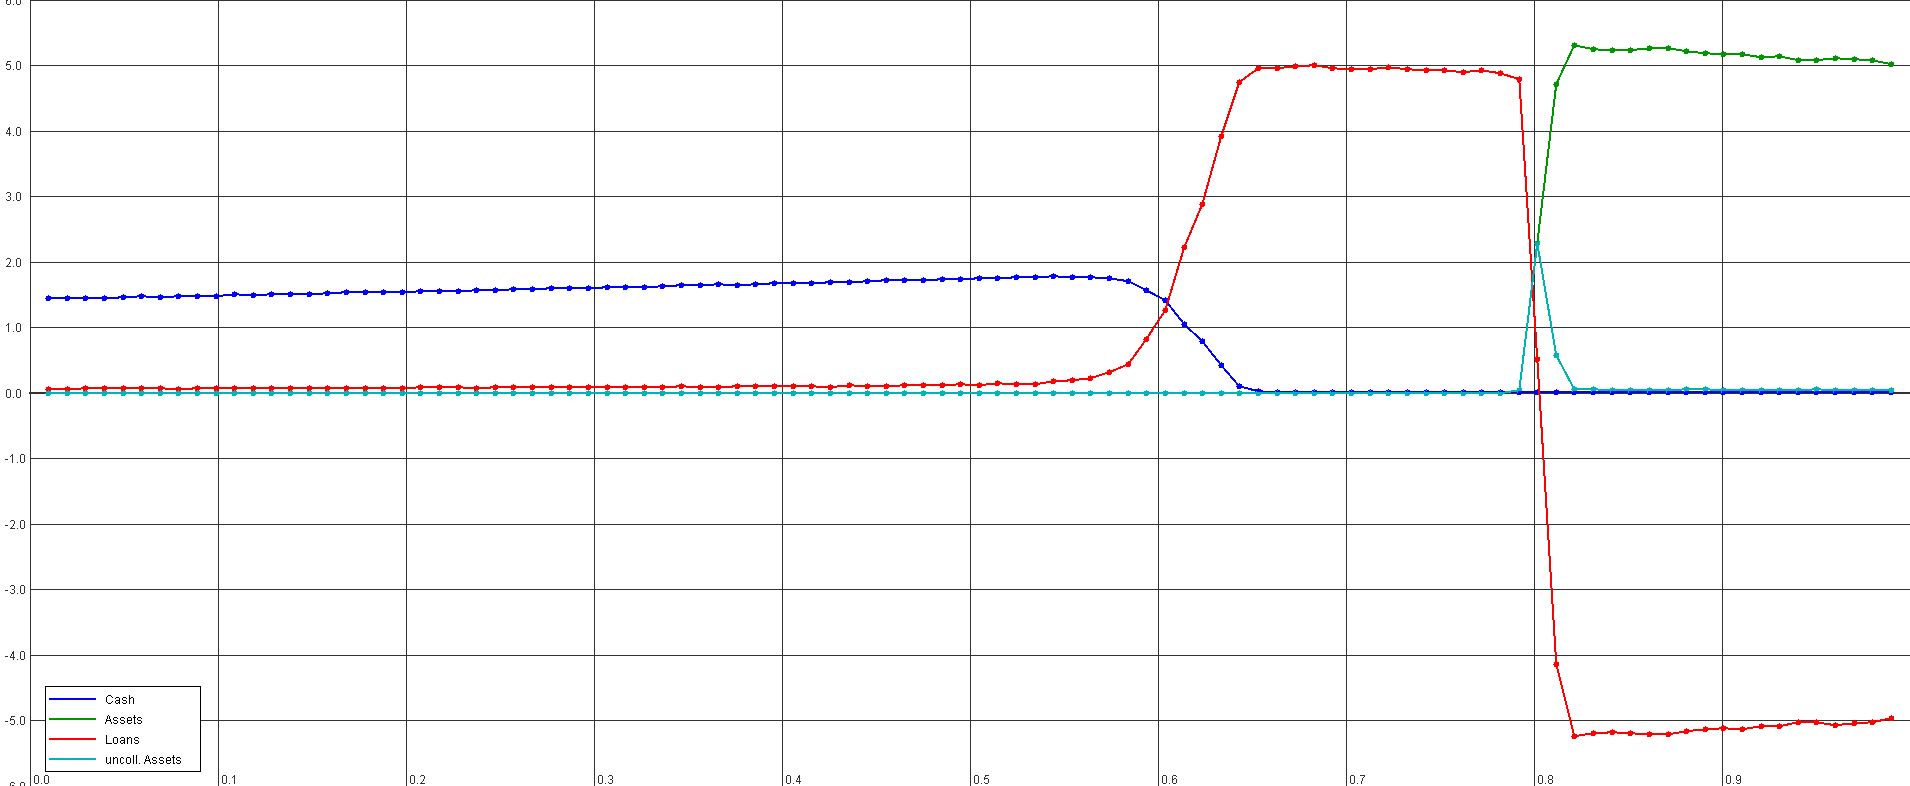
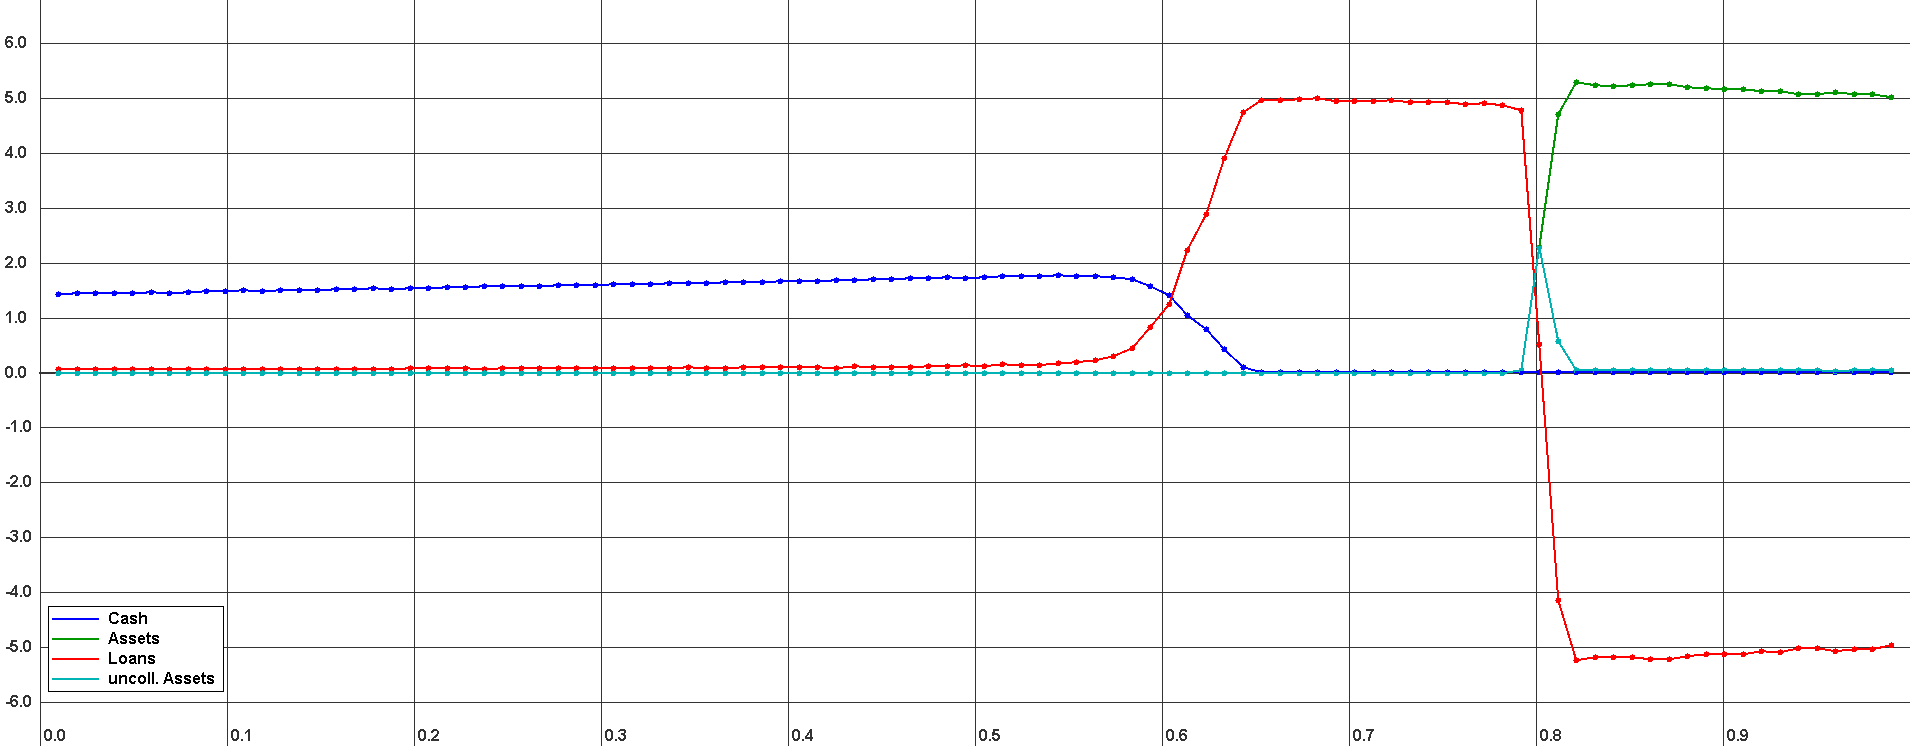
changed font of visualizers to 16pts, bold, helvetica

diff --git a/Code/DoubleAuctionWithNetworks/src/frontend/visualisation/WealthVisualizer.java b/Code/DoubleAuctionWithNetworks/src/frontend/visualisation/WealthVisualizer.java
@@ -15,15 +15,15 @@ public class WealthVisualizer extends Visualizer {
 	private final static int X_ACHSIS_GRID = 10;
 	private final static int Y_ACHSIS_GRID = 10;
 	
-	private final static double Y_ACHSIS_RANGE = 6.0;
+	private final static double Y_ACHSIS_RANGE = 6.8;
 	
 	private final static int POINT_RADIUS = 3;
 	private final static int POINT_DIAMETER = POINT_RADIUS * 2;
 
-	private final static int LEGEND_BOX_X = 45;
-	private final static int LEGEND_BOX_Y = 100;
+	private final static int LEGEND_BOX_X = 48;
+	private final static int LEGEND_BOX_Y = 140;
 	
-	private final static int SCALA_WIDTH = 30;
+	private final static int SCALA_WIDTH = 40;
 	
 	private final static Color DARK_GREEN = new Color( 0, 150, 0 );
 	private final static Color DARK_CYAN = new Color(0, 180, 180);
@@ -64,6 +64,8 @@ public class WealthVisualizer extends Visualizer {
 		double width = d.getWidth() - SCALA_WIDTH;
 		double yHalf = d.height / 2.0;
 
+		g.setFont( RENDER_FONT );
+		
 		// draw grid
 		( ( Graphics2D ) g ).setStroke( new BasicStroke( 2 ) );
 		g.drawLine( SCALA_WIDTH, ( int ) yHalf, d.width, ( int ) yHalf );
@@ -75,7 +77,7 @@ public class WealthVisualizer extends Visualizer {
 			String str = " " + h;
 			
 			g.drawLine( x, 0, x, d.height );
-			g.drawChars( str.toCharArray(), 0, str.length(), x, d.height - 2 );
+			g.drawChars( str.toCharArray(), 0, str.length(), x, d.height - 5 );
 		}
 		
 		// draw scala 
@@ -147,7 +149,7 @@ public class WealthVisualizer extends Visualizer {
 
 		// draw legend-box
 		g.setColor( Color.WHITE );
-		g.fillRect( LEGEND_BOX_X, d.height - LEGEND_BOX_Y, 155, 85 );
+		g.fillRect( LEGEND_BOX_X, d.height - LEGEND_BOX_Y, 175, 85 );
 
 		// draw legend
 		g.setColor( Color.BLUE );
@@ -173,7 +175,7 @@ public class WealthVisualizer extends Visualizer {
 		// draw border of legend-box
 		( ( Graphics2D ) g ).setStroke( new BasicStroke( 1 ) );
 		g.setColor( Color.BLACK );
-		g.drawRect( LEGEND_BOX_X, d.height - LEGEND_BOX_Y, 155, 85 );
+		g.drawRect( LEGEND_BOX_X, d.height - LEGEND_BOX_Y, 175, 85 );
 	}
 }
 

diff --git a/Code/DoubleAuctionWithNetworks/src/frontend/visualisation/MarketsVisualizer.java b/Code/DoubleAuctionWithNetworks/src/frontend/visualisation/MarketsVisualizer.java
@@ -41,7 +41,7 @@ public abstract class MarketsVisualizer extends Visualizer {
 	protected void renderLegend( Graphics g, int topX, int topY ) {
 		// draw legend-box
 		g.setColor( Color.WHITE );
-		g.fillRect( topX, topY, 155, 85 );
+		g.fillRect( topX, topY, 185, 85 );
 		
 		// draw legend
 		g.setColor( MarketsAccuOnlineVisualizer.MARKET_COLORS[ MarketType.ASSET_CASH.ordinal() ] );
@@ -67,6 +67,6 @@ public abstract class MarketsVisualizer extends Visualizer {
 		// draw border of legend-box
 		( ( Graphics2D ) g ).setStroke( new BasicStroke( 1 ) );
 		g.setColor( Color.BLACK );
-		g.drawRect( topX, topY, 155, 85 );
+		g.drawRect( topX, topY, 185, 85 );
 	}
 }

diff --git a/Code/DoubleAuctionWithNetworks/src/frontend/visualisation/Visualizer.java b/Code/DoubleAuctionWithNetworks/src/frontend/visualisation/Visualizer.java
@@ -1,5 +1,6 @@
 package frontend.visualisation;
 
+import java.awt.Font;
 import java.awt.Graphics;
 import java.awt.event.MouseAdapter;
 import java.awt.event.MouseEvent;
@@ -17,6 +18,8 @@ import utils.Utils;
 @SuppressWarnings("serial")
 public class Visualizer extends JPanel {
 
+	protected final static Font RENDER_FONT = new Font( "Helvetica", Font.BOLD, 16 );
+	
 	public Visualizer() {
 		this.addMouseListener( new MouseAdapter() {
 			@Override

diff --git a/Code/DoubleAuctionWithNetworks/src/frontend/visualisation/MarketsTimeOfflineVisualizer.java b/Code/DoubleAuctionWithNetworks/src/frontend/visualisation/MarketsTimeOfflineVisualizer.java
@@ -112,6 +112,8 @@ public class MarketsTimeOfflineVisualizer extends MarketsVisualizer {
 		
 		String str = null;
 		
+		g.setFont( RENDER_FONT );
+		
 		// draw x-achsis sections
 		for ( int i = 0; i < X_ACHSIS_GRID; i++ ) {
 			double h = i / ( double ) X_ACHSIS_GRID;

diff --git a/Code/DoubleAuctionWithNetworks/src/frontend/visualisation/MarketsAccuOfflineVisualizer.java b/Code/DoubleAuctionWithNetworks/src/frontend/visualisation/MarketsAccuOfflineVisualizer.java
@@ -61,6 +61,8 @@ public class MarketsAccuOfflineVisualizer extends MarketsVisualizer {
 		
 		String str = null;
 		
+		g.setFont( RENDER_FONT );
+		
 		// draw x-achsis sections
 		for ( int i = 0; i < X_ACHSIS_GRID; i++ ) {
 			double h = i / ( double ) X_ACHSIS_GRID;

diff --git a/Code/DoubleAuctionWithNetworks/src/frontend/visualisation/MarketsAccuOnlineVisualizer.java b/Code/DoubleAuctionWithNetworks/src/frontend/visualisation/MarketsAccuOnlineVisualizer.java
@@ -49,6 +49,8 @@ public class MarketsAccuOnlineVisualizer extends MarketsVisualizer {
 		
 		String str = null;
 		
+		g.setFont( RENDER_FONT );
+		
 		// draw x-achsis sections
 		for ( int i = 0; i < X_ACHSIS_GRID; i++ ) {
 			double h = i / ( double ) X_ACHSIS_GRID;

diff --git a/Code/DoubleAuctionWithNetworks/src/frontend/visualisation/MarketsTimeOnlineVisualizer.java b/Code/DoubleAuctionWithNetworks/src/frontend/visualisation/MarketsTimeOnlineVisualizer.java
@@ -43,6 +43,8 @@ public class MarketsTimeOnlineVisualizer extends MarketsVisualizer {
 		
 		String str = null;
 		
+		g.setFont( RENDER_FONT );
+		
 		// draw x-achsis sections
 		for ( int i = 0; i < X_ACHSIS_GRID; i++ ) {
 			double h = i / ( double ) X_ACHSIS_GRID;
